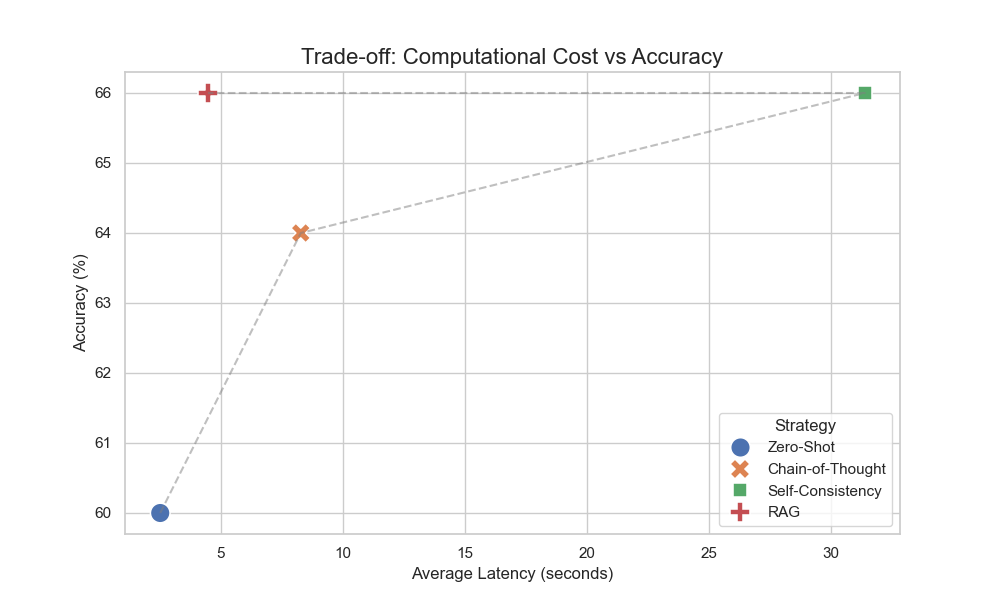
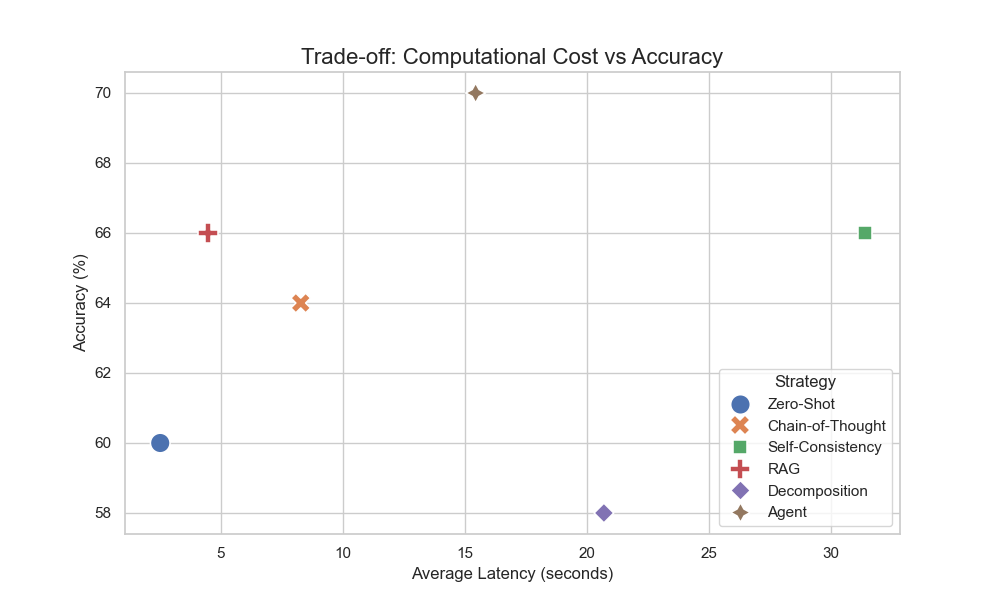
Updated plots for comparison

diff --git a/src/analysis/visualize_results.py b/src/analysis/visualize_results.py
@@ -71,7 +71,9 @@ def main():
         ("zero_shot", "Zero-Shot"),
         ("cot", "Chain-of-Thought"),
         ("self_consistency", "Self-Consistency"),
-        ("rag", "RAG")
+        ("rag", "RAG"),
+        ("decomposition", "Decomposition"),
+        ("agent_fixed", "Agent")
     ]
     
     data = []
@@ -107,7 +109,7 @@ def main():
         legend=False
     )
     
-    plt.title("Accuracy Comparison: Zero-Shot vs Reasoning", fontsize=16)
+    plt.title("Accuracy Comparison", fontsize=16)
     plt.ylabel("Accuracy (%)", fontsize=12)
     plt.ylim(0, 100)
     
@@ -136,9 +138,6 @@ def main():
         s=200, 
         style="Strategy"
     )
-    
-    # Draw a line connecting the points to visualize the trend
-    plt.plot(df_results["Latency"], df_results["Accuracy"], linestyle='--', color='gray', alpha=0.5)
     
     plt.title("Trade-off: Computational Cost vs Accuracy", fontsize=16)
     plt.xlabel("Average Latency (seconds)", fontsize=12)
